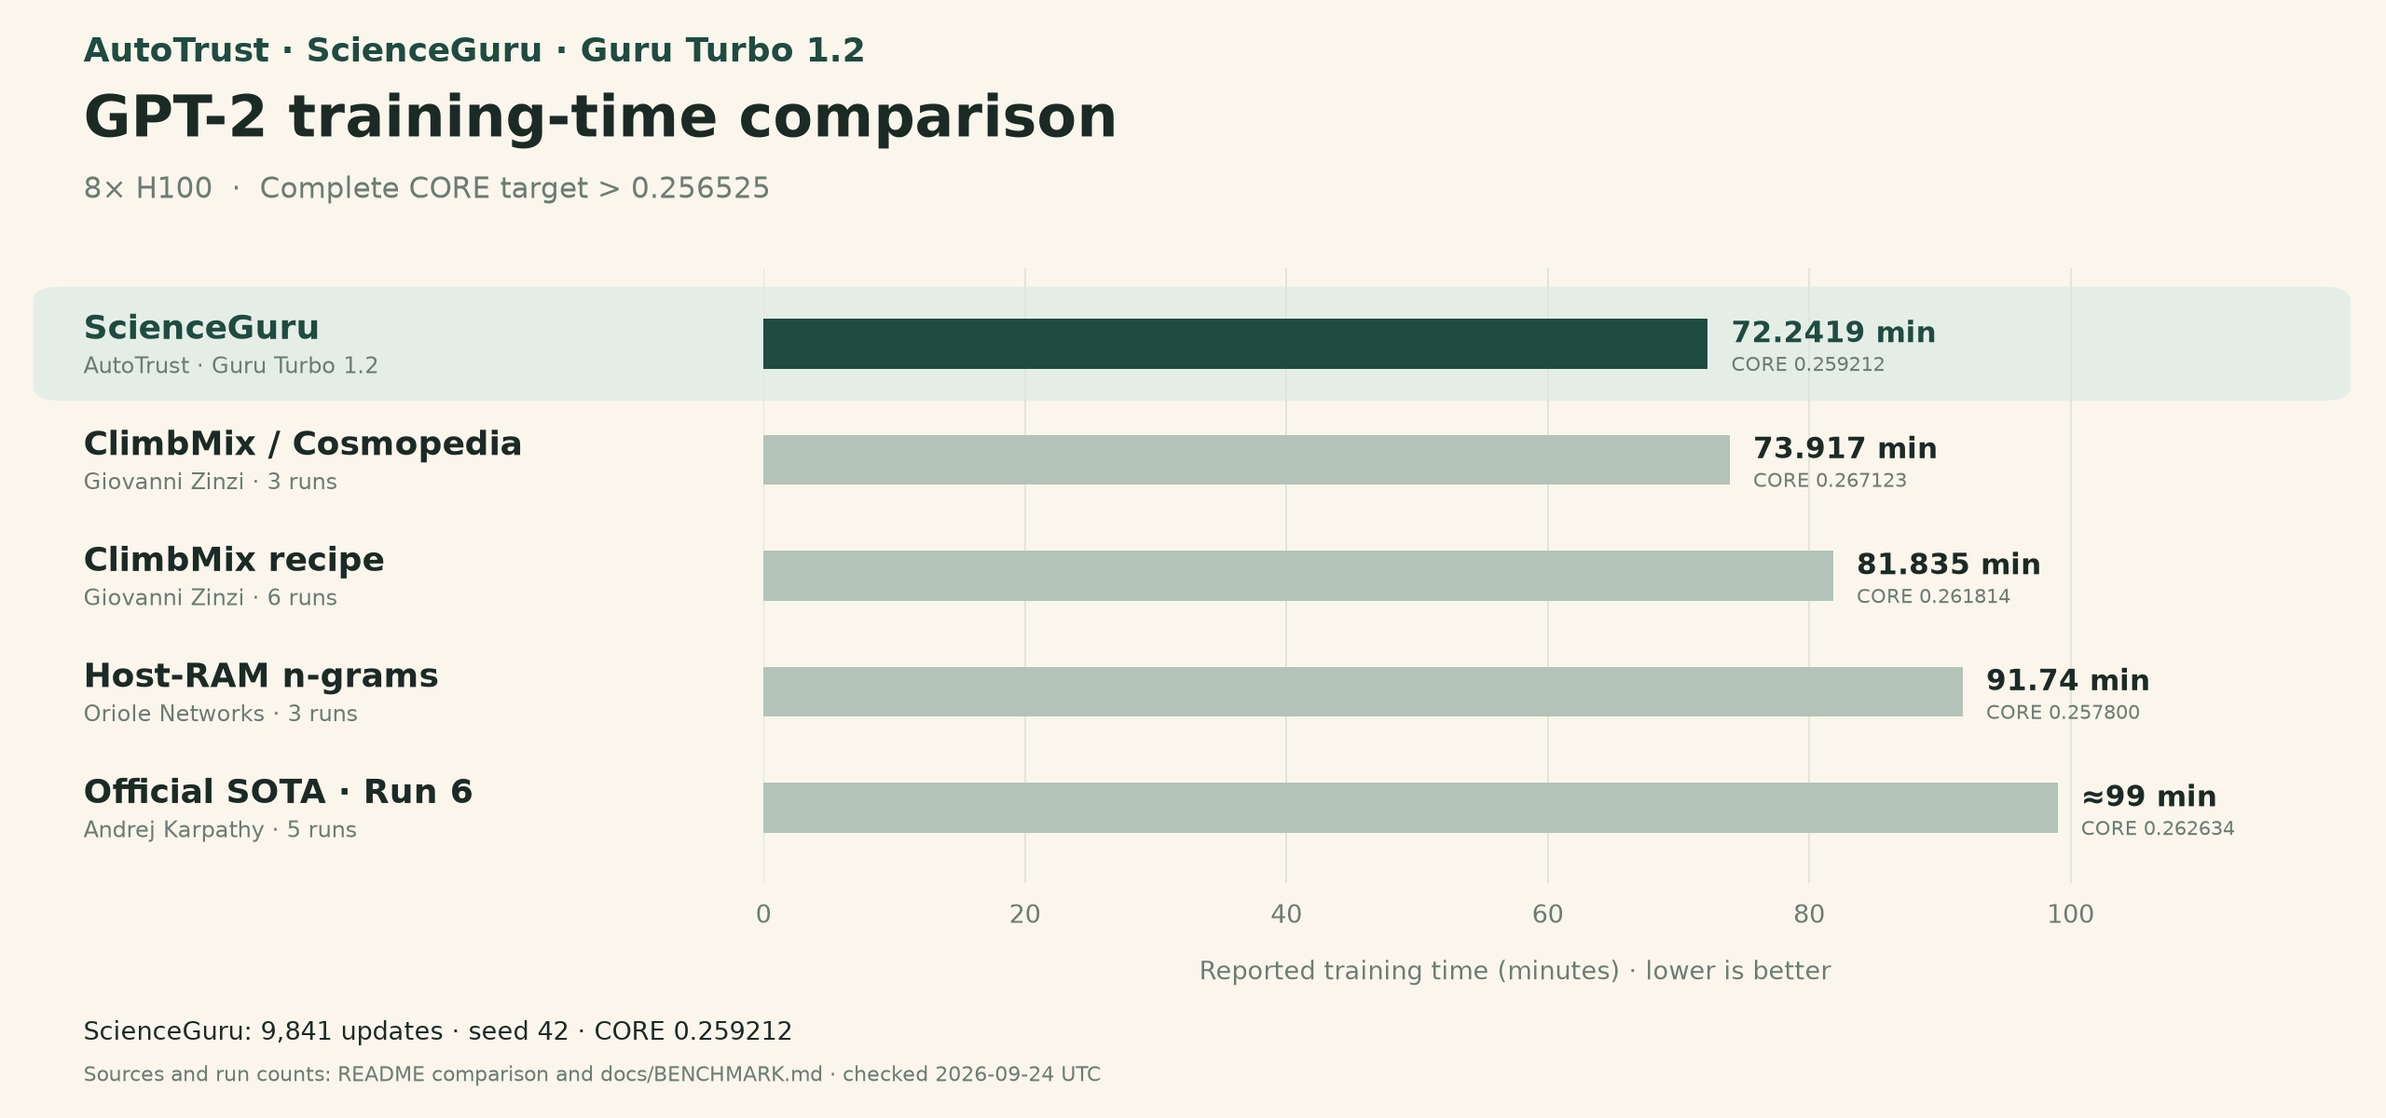
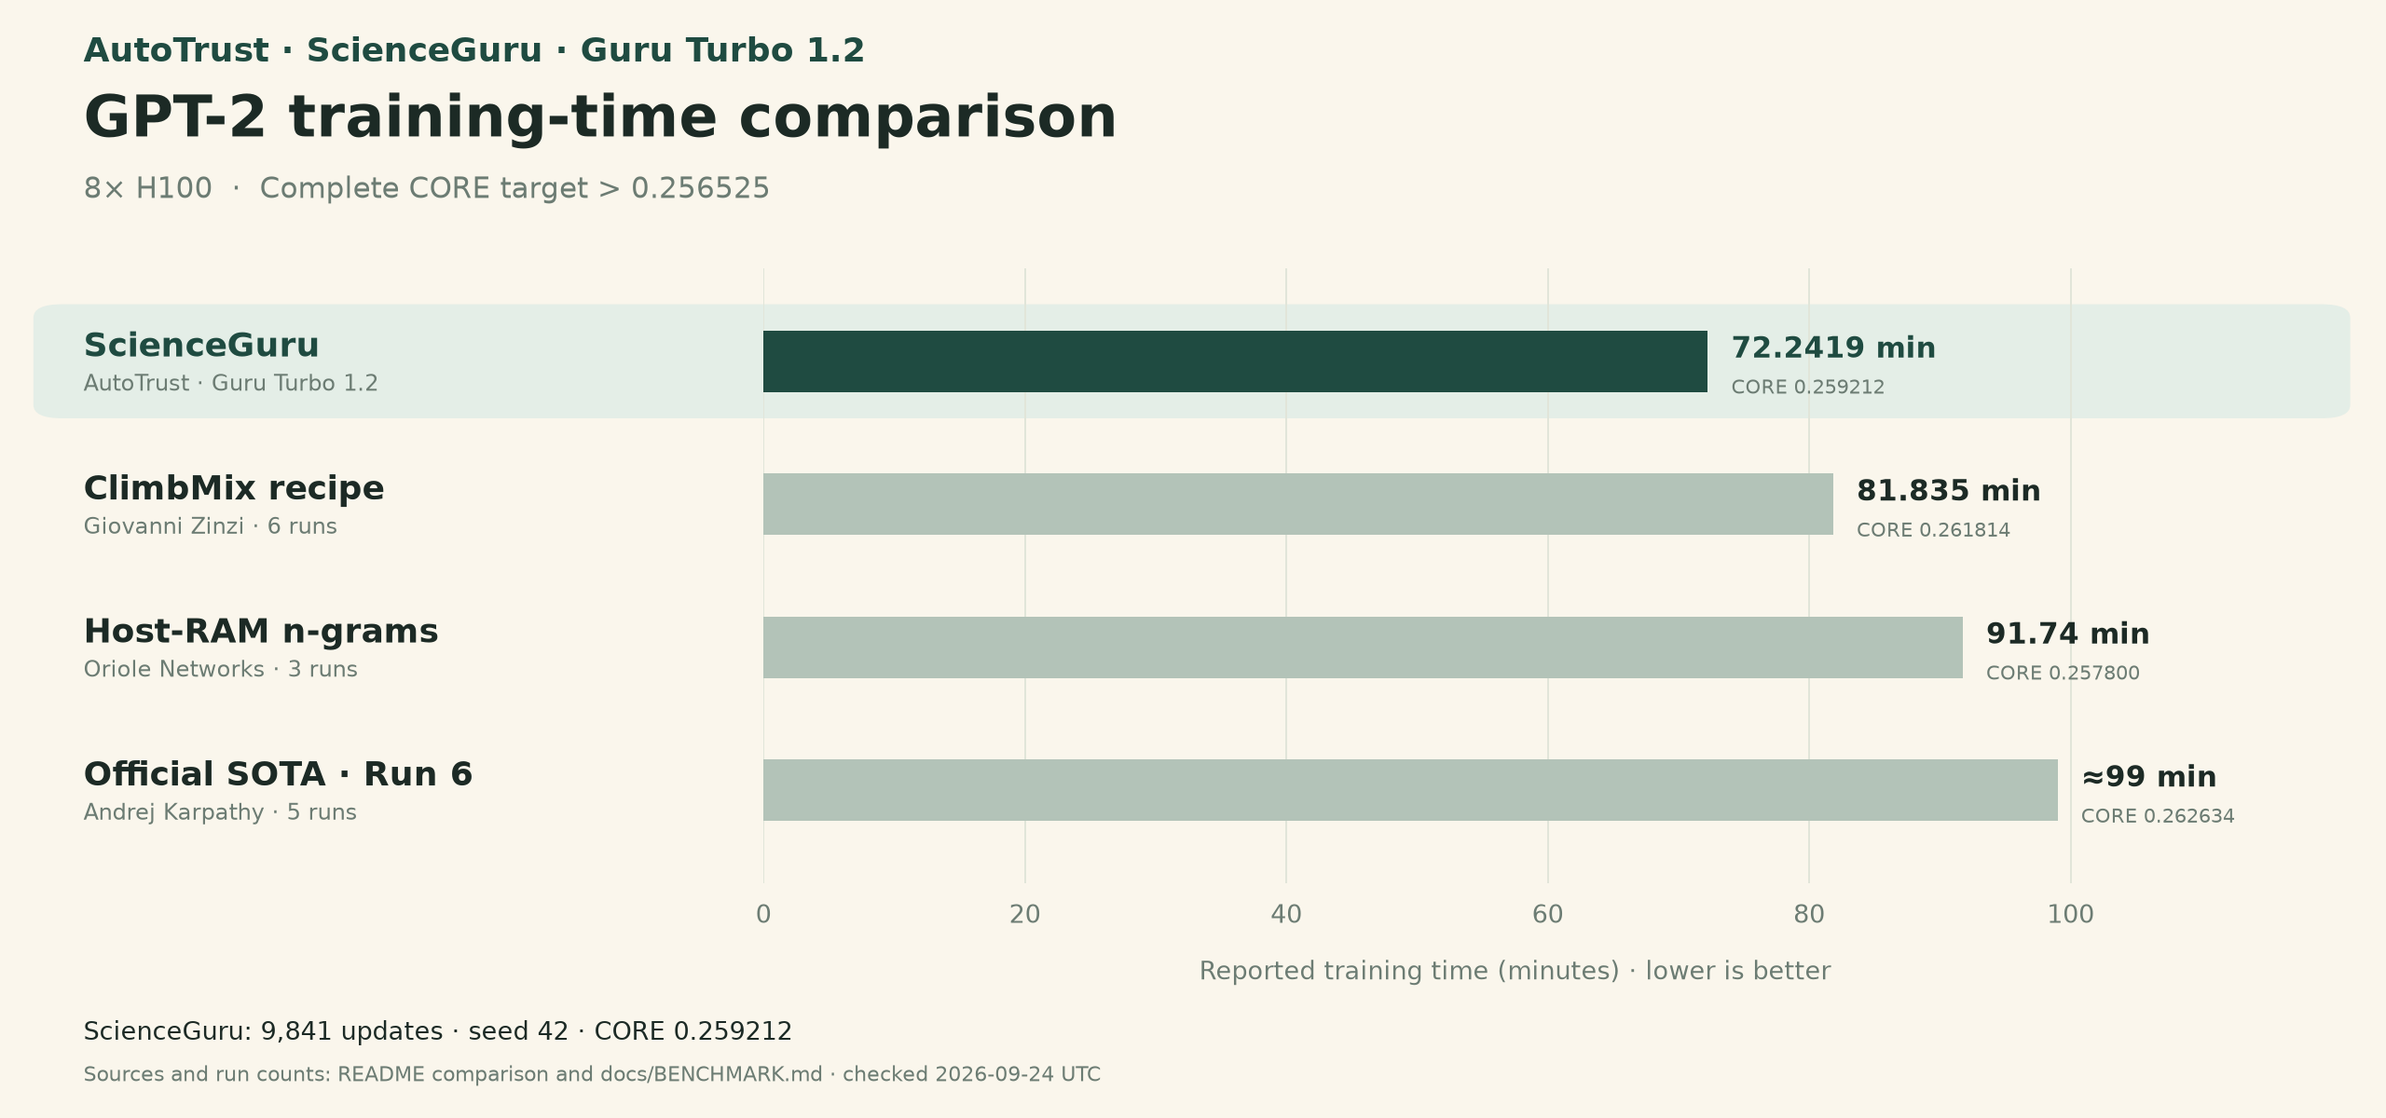
Remove mixed-data experiment from GPT-2 baseline comparisons

diff --git a/assets/render_history.py b/assets/render_history.py
@@ -87,7 +87,6 @@ callout(ax, lookup['run4'], 'Run 4 · ClimbMix\n≈121.2 min', (.30, .51))
 callout(ax, lookup['run5'], 'Run 5 · Autoresearch round 1\n≈108 min', (.06, .12))
 callout(ax, lookup['run6'], 'Run 6 · Autoresearch round 2\n≈99 min · official SOTA', (.35, .13))
 callout(ax, lookup['pr830_main'], 'Giovanni · ClimbMix\n81.835 min', (.57, .53))
-callout(ax, lookup['pr830_mixed'], 'Giovanni · Mixed data\n73.917 min', (.60, .12))
 callout(ax, lookup['pr854_hostram'], 'Oriole Networks · n-grams\n91.74 min', (.78, .48))
 callout(ax, ours, 'ScienceGuru\n72.2419 min', (.995, .29), strong=True, align='right')
 legend = [Line2D([0], [0], color=HISTORY, marker='o', markerfacecolor='#D2DCCB', lw=2, label='nanochat leaderboard · 6 runs'),
@@ -113,4 +112,4 @@ for tag, ident, text in [('title', 'chart-title', 'ScienceGuru Time-to-GPT-2 tra
     ('desc', 'chart-description', '; '.join(f"{p['date']} {p['label']}: {described_time(p)} minutes" for p in points))]:
     element = ET.Element(f'{{{ns}}}{tag}', {'id': ident}); element.text = text; svg.insert(0, element)
 tree.write(path, encoding='utf-8', xml_declaration=True)
-print('Rendered six official runs, three public comparisons, and ScienceGuru as SVG and PNG.')
+print(f'Rendered {len(official)} official runs, {len(others)} public comparisons, and ScienceGuru as SVG and PNG.')

diff --git a/assets/render_comparison.py b/assets/render_comparison.py
@@ -29,7 +29,6 @@ assert [r['minutes'] for r in rows] == sorted(r['minutes'] for r in rows)
 
 labels = {
     'scienceguru_nc033': ('ScienceGuru', 'AutoTrust · Guru Turbo 1.2'),
-    'pr830_mixed': ('ClimbMix / Cosmopedia', 'Giovanni Zinzi · 3 runs'),
     'pr830_main': ('ClimbMix recipe', 'Giovanni Zinzi · 6 runs'),
     'pr854_hostram': ('Host-RAM n-grams', 'Oriole Networks · 3 runs'),
     'official_run6': ('Official SOTA · Run 6', 'Andrej Karpathy · 5 runs'),
@@ -84,4 +83,4 @@ for tag, ident, text in [('title', 'chart-title', 'ScienceGuru GPT-2 training-ti
     ('desc', 'chart-description', '; '.join(f"{labels[r['id']][0]}: {described_time(r)} minutes, CORE {r['core']:.6f}" for r in rows))]:
     element = ET.Element(f'{{{ns}}}{tag}', {'id': ident}); element.text = text; svg.insert(0, element)
 tree.write(path, encoding='utf-8', xml_declaration=True)
-print('Rendered five GPT-2 comparison rows as SVG and PNG.')
+print(f'Rendered {len(rows)} GPT-2 comparison rows as SVG and PNG.')

diff --git a/docs/SPEEDRUN_CHART.md b/docs/SPEEDRUN_CHART.md
@@ -1,6 +1,6 @@
 # Time-to-GPT-2 chart data and sources
 
-The history figure shows six nanochat leaderboard runs, three selected comparison results, and ScienceGuru's completed 72.2419-minute experiment. Every plotted time uses an 8×H100 node. The chart and main comparison use the cream and green presentation of the latest [NanoGPT reference page](https://github.com/AutoTrustAI/nanogpt-speedrun-sota-by-guru/blob/fcdc062afd12b50684361d04451b5681670bb843/README.md), with Time-to-GPT-2 data throughout.
+The history figure shows six nanochat leaderboard runs, two selected comparison results, and ScienceGuru's completed 72.2419-minute experiment. Every plotted time uses an 8×H100 node. The chart and main comparison use the cream and green presentation of the latest [NanoGPT reference page](https://github.com/AutoTrustAI/nanogpt-speedrun-sota-by-guru/blob/fcdc062afd12b50684361d04451b5681670bb843/README.md), with Time-to-GPT-2 data throughout.
 
 ## History values
 
@@ -13,13 +13,12 @@ The history figure shows six nanochat leaderboard runs, three selected compariso
 | 2026-03-09 | Run 5: autoresearch round 1 | ≈108 | Same leaderboard, 1.80 hours |
 | 2026-03-14 | Run 6: autoresearch round 2 | ≈99 | Same leaderboard, 1.65 hours |
 | 2026-08-15 | Giovanni Zinzi: ClimbMix | 81.835 | [#830](https://github.com/karpathy/nanochat/pull/830), six-run result |
-| 2026-08-15 | Giovanni Zinzi: mixed data | 73.917 | [#830](https://github.com/karpathy/nanochat/pull/830), three-run result |
 | 2026-09-11 | Oriole Networks: host-RAM n-grams | 91.74 | [#854](https://github.com/karpathy/nanochat/pull/854), three-run result |
 | 2026-09-24 | ScienceGuru + Guru Turbo 1.2 | 72.241873 | [nc033 metrics](../results/nc033/metrics.json), seed 42 |
 
 The six official dates and times follow the pinned nanochat README. Its hours are rounded, so their conversion to minutes and comparisons against them are approximate. Run 4 uses March 4 from that table; the detailed run note instead says March 3. The first three run notes contain more precise seconds, but the history consistently uses the table's published hours.
 
-The two Giovanni points use #830's opening date; the Oriole point uses #854's opening date. Their values were read from the submission bodies on September 24, 2026. These dates identify the submissions and do not assert the precise date of each underlying experiment. ScienceGuru uses the date of this repository's [first publication commit](https://github.com/AutoTrustAI/gpt2-speedrun-sota-by-guru/commit/9f154239f71c7075db60af0203a2c1131a8e120e), September 24, 2026 UTC.
+The Giovanni point uses #830's opening date; the Oriole point uses #854's opening date. Their values were read from the submission bodies on September 24, 2026. These dates identify the submissions and do not assert the precise date of each underlying experiment. ScienceGuru uses the date of this repository's [first publication commit](https://github.com/AutoTrustAI/gpt2-speedrun-sota-by-guru/commit/9f154239f71c7075db60af0203a2c1131a8e120e), September 24, 2026 UTC.
 
 The solid line connects the six official runs. Diamonds show selected comparisons, and the star shows ScienceGuru. The dashed segment connects the official Run 6 reference to ScienceGuru for comparison. It does not represent additional measurements. The 2019 GPT-2 training used different hardware and is outside this plot.
 
@@ -33,7 +32,7 @@ Speedup = reference time / ScienceGuru time
 Time reduction = 1 - ScienceGuru time / reference time
 ```
 
-The rounded official 99-minute reference gives approximately **1.370× speedup**, **27.03% less time**, and **26.76 minutes saved**. Giovanni's 73.917-minute mixed-data result gives **1.023× speedup**, **2.27% less time**, and **100.51 seconds saved**.
+The rounded official 99-minute reference gives approximately **1.370× speedup**, **27.03% less time**, and **26.76 minutes saved**.
 
 ## Regenerate the figures
 

diff --git a/README.md b/README.md
@@ -42,26 +42,25 @@ The native `total_training_time` is **4,334.512382 seconds**, covering **9,830 t
 
 Results checked on **2026-09-24 UTC**, for **8×H100 / CORE >0.256525**, ordered by training time. Each reference uses its reported time and run count; ScienceGuru uses the completed seed 42 result. The official 99-minute reference is rounded.
 
-![GPT-2 training-time comparison: ScienceGuru 72.2419 minutes, Giovanni's mixed-data recipe 73.917, Giovanni's ClimbMix recipe 81.835, Oriole Networks 91.74, and official Run 6 approximately 99 minutes.](assets/gpt2-comparison.svg)
+![GPT-2 training-time comparison: ScienceGuru 72.2419 minutes, Giovanni's ClimbMix recipe 81.835, Oriole Networks 91.74, and official Run 6 approximately 99 minutes.](assets/gpt2-comparison.svg)
 
 [Download comparison PNG](assets/gpt2-comparison.png) · [Comparison data](assets/comparison-data.json) · [Sources and protocol](docs/BENCHMARK.md)
 
 | Strategy | Team / contributor | Training time | CORE | Runs | ScienceGuru speedup |
 |---|---|---:|---:|---:|---:|
 | **ScienceGuru, MLP4864** | **AutoTrust · Guru Turbo 1.2** | **72.2419 min** | **0.259212** | **1** | — |
-| [ClimbMix / Cosmopedia mixture](https://github.com/karpathy/nanochat/pull/830) | Giovanni Zinzi | **73.917 min** | 0.267123 | 3 | **1.023×** |
 | [ClimbMix recipe](https://github.com/karpathy/nanochat/pull/830) | Giovanni Zinzi | **81.835 min** | 0.261814 | 6 | **1.133×** |
 | [Host-RAM n-grams](https://github.com/karpathy/nanochat/pull/854) | Oriole Networks · Nihir Patel and collaborators | **91.74 min** | 0.2578 | 3 | **1.270×** |
 | [**Official SOTA — Run 6**](https://github.com/karpathy/nanochat/blob/92d63d4e8bb4df75c3b71618f31ddde2378b2bcd/dev/LEADERBOARD.md#run-6) | Andrej Karpathy | **≈99 min** | 0.262634 | 5 | **≈1.370×** |
 
-Against the official Run 6 reference, ScienceGuru saves **≈26.76 minutes**, a **≈1.370× speedup**. Against the **73.917-minute** mixed-data result, it saves **100.51 seconds**, using **2.27% less training time**. The model is trained on ClimbMix with the original tokenizer and complete downstream evaluation. [Comparison details](docs/BENCHMARK.md#public-comparisons).
+Against the official Run 6 reference, ScienceGuru saves **≈26.76 minutes**, a **≈1.370× speedup**. The model is trained on ClimbMix with the original tokenizer and complete downstream evaluation. [Comparison details](docs/BENCHMARK.md#public-comparisons).
 
 ## Background of the leading contributors
 
 | Contributor | Public background | Result in this comparison |
 |---|---|---|
 | **Andrej Karpathy** | Creator and maintainer of [nanochat](https://github.com/karpathy/nanochat); the latest official run incorporates a second round of autoresearch. | **≈99 min** |
-| **Giovanni Zinzi** | Author of [#830](https://github.com/karpathy/nanochat/pull/830), which reports fused cross entropy, selective RMSNorm scales, and a 49,152-token speedrun vocabulary. | **81.835 min**; mixed data **73.917 min** |
+| **Giovanni Zinzi** | Author of [#830](https://github.com/karpathy/nanochat/pull/830), which reports fused cross entropy, selective RMSNorm scales, and a 49,152-token speedrun vocabulary. | **81.835 min** |
 | **Oriole Networks · Nihir Patel and collaborators** | [#854](https://github.com/karpathy/nanochat/pull/854) names Nihir Patel, Alessandro Ottino, and Robin Matzner at Oriole Networks. | **91.74 min** |
 
 [Recursive](https://github.com/recursive-org/first-steps-toward-automated-ai-research/tree/main/nanochat_autoresearch) also publishes NanoChat autoresearch experiments, reporting **0.9109 mean validation BPB** over ten seeds on one B200 with a five-minute budget. That experiment uses a different hardware and evaluation protocol. [Teams, contributions, and related work](docs/TEAMS.md).

diff --git a/README.zh-CN.md b/README.zh-CN.md
@@ -42,26 +42,25 @@ nanochat 官方榜单收录了 **6 次 8×H100 运行纪录**，依次通过 FP8
 
 以下结果核对于 **2026-09-24 UTC**，使用 **8×H100 / CORE >0.256525**，按训练时间排序。各方案采用来源报告的时间与运行次数；ScienceGuru 使用已完成的 seed 42 成绩。官方约 99 分钟为经过舍入的数值。
 
-![GPT-2 训练时间对比：ScienceGuru 72.2419 分钟、Giovanni 混合数据 73.917 分钟、ClimbMix 方案 81.835 分钟、Oriole Networks 91.74 分钟、官方 Run 6 约 99 分钟。](assets/gpt2-comparison.svg)
+![GPT-2 训练时间对比：ScienceGuru 72.2419 分钟、ClimbMix 方案 81.835 分钟、Oriole Networks 91.74 分钟、官方 Run 6 约 99 分钟。](assets/gpt2-comparison.svg)
 
 [下载对比图 PNG](assets/gpt2-comparison.png) · [对比数据](assets/comparison-data.json) · [来源与规则](docs/BENCHMARK.md)
 
 | 方案 | 团队 / 作者 | 训练时间 | CORE | 运行次数 | ScienceGuru 加速比 |
 |---|---|---:|---:|---:|---:|
 | **ScienceGuru，MLP4864** | **AutoTrust · Guru Turbo 1.2** | **72.2419 分钟** | **0.259212** | **1** | — |
-| [ClimbMix / Cosmopedia 混合数据](https://github.com/karpathy/nanochat/pull/830) | Giovanni Zinzi | **73.917 分钟** | 0.267123 | 3 | **1.023×** |
 | [ClimbMix 方案](https://github.com/karpathy/nanochat/pull/830) | Giovanni Zinzi | **81.835 分钟** | 0.261814 | 6 | **1.133×** |
 | [主机内存 n-gram](https://github.com/karpathy/nanochat/pull/854) | Oriole Networks · Nihir Patel 等 | **91.74 分钟** | 0.2578 | 3 | **1.270×** |
 | [**官方 SOTA — Run 6**](https://github.com/karpathy/nanochat/blob/92d63d4e8bb4df75c3b71618f31ddde2378b2bcd/dev/LEADERBOARD.md#run-6) | Andrej Karpathy | **约 99 分钟** | 0.262634 | 5 | **约 1.370×** |
 
-相对官方 Run 6，ScienceGuru 节省约 **26.76 分钟**，加速约 **1.370 倍**；相对 **73.917 分钟**的混合数据成绩，节省 **100.51 秒**，训练时间减少 **2.27%**。本方案使用 ClimbMix、原 tokenizer 和完整下游评估。[对比说明](docs/BENCHMARK.md#public-comparisons)。
+相对官方 Run 6，ScienceGuru 节省约 **26.76 分钟**，加速约 **1.370 倍**。本方案使用 ClimbMix、原 tokenizer 和完整下游评估。[对比说明](docs/BENCHMARK.md#public-comparisons)。
 
 ## 主要贡献者背景
 
 | 贡献者 | 公开背景 | 本页对比成绩 |
 |---|---|---|
 | **Andrej Karpathy** | [nanochat](https://github.com/karpathy/nanochat) 的创建者与维护者；最新官方成绩采用第二轮 autoresearch 的改进。 | **约 99 分钟** |
-| **Giovanni Zinzi** | [#830](https://github.com/karpathy/nanochat/pull/830) 的作者，方案涉及融合交叉熵、选择性 RMSNorm 缩放和 49152 词表。 | **81.835 分钟**；混合数据 **73.917 分钟** |
+| **Giovanni Zinzi** | [#830](https://github.com/karpathy/nanochat/pull/830) 的作者，方案涉及融合交叉熵、选择性 RMSNorm 缩放和 49152 词表。 | **81.835 分钟** |
 | **Oriole Networks · Nihir Patel 等** | [#854](https://github.com/karpathy/nanochat/pull/854) 明确列出 Nihir Patel、Alessandro Ottino 和 Robin Matzner 的 Oriole Networks 归属。 | **91.74 分钟** |
 
 [Recursive](https://github.com/recursive-org/first-steps-toward-automated-ai-research/tree/main/nanochat_autoresearch) 也公开了 NanoChat autoresearch 实验：单张 B200、五分钟预算、10 个 seed 的平均验证 BPB 为 **0.9109**，采用另一套硬件和评测规则。[团队、贡献与相关研究](docs/TEAMS.md)。

diff --git a/docs/TEAMS.md b/docs/TEAMS.md
@@ -11,10 +11,10 @@ The comparison brings together the maintained Time-to-GPT-2 leaderboard and sele
 | Contributor | Publicly documented contribution | Reported result |
 |---|---|---|
 | **Andrej Karpathy** | Maintains [nanochat](https://github.com/karpathy/nanochat). The official [Run 6 account](https://github.com/karpathy/nanochat/blob/92d63d4e8bb4df75c3b71618f31ddde2378b2bcd/dev/LEADERBOARD.md#run-6) describes architecture improvements from the second autoresearch round. | **≈99 min**, CORE **0.262634**, five runs. |
-| **Giovanni Zinzi** | Author of [PR #830](https://github.com/karpathy/nanochat/pull/830): a d22 recipe with a 49,152-token vocabulary, fused cross entropy and selective RMSNorm scales. The submission identifies the contributor without establishing a company affiliation. | Main ClimbMix recipe: **81.835 min**, CORE **0.261814**, six runs. Mixed-data experiment: **73.917 min**, CORE **0.267123**, three runs. |
+| **Giovanni Zinzi** | Author of [PR #830](https://github.com/karpathy/nanochat/pull/830): a d22 recipe with a 49,152-token vocabulary, fused cross entropy and selective RMSNorm scales. The submission identifies the contributor without establishing a company affiliation. | Main ClimbMix recipe: **81.835 min**, CORE **0.261814**, six runs. |
 | **Oriole Networks · Nihir Patel** | The disclosure in [PR #854](https://github.com/karpathy/nanochat/pull/854) identifies Nihir Patel, Alessandro Ottino and Robin Matzner with Oriole Networks. The method adds hashed bigram/trigram tables in host RAM to a d24 model. | **91.74 min**, CORE **0.2578**, three runs. |
 
-Zinzi's mixed-data experiment uses an 80/20 ClimbMix/Cosmopedia-v2 mixture. The author omitted it from the main recipe because it regressed at d14. Oriole's individual CORE scores are 0.2592, 0.2557 and 0.2584; two of the three exceed the individual threshold. These details accompany the aggregate results in [Benchmark and comparisons](BENCHMARK.md).
+Oriole's individual CORE scores are 0.2592, 0.2557 and 0.2584; two of the three exceed the individual threshold. These details accompany the aggregate results in [Benchmark and comparisons](BENCHMARK.md).
 
 ## Related organizations and research
 

diff --git a/docs/BENCHMARK.md b/docs/BENCHMARK.md
@@ -23,7 +23,7 @@ The reported time is the original `total_training_time` accumulated by the train
 All comparison rows appear together in the [main page](../README.md#performance-comparison). Data and direct sources are in [public-baselines.json](../results/public-baselines.json), checked September 24, 2026.
 
 - The maintained official table lists Run 6 at approximately 99 minutes, CORE 0.262634, five runs.
-- [Giovanni Zinzi's #830](https://github.com/karpathy/nanochat/pull/830) reports 81.835 minutes and CORE 0.261814 over six runs for its main ClimbMix recipe. Its three-run 80/20 ClimbMix/Cosmopedia experiment reports 73.917 minutes and CORE 0.267123. The mixture was omitted from the main recipe after worse d14 results.
+- [Giovanni Zinzi's #830](https://github.com/karpathy/nanochat/pull/830) reports 81.835 minutes and CORE 0.261814 over six runs for its main ClimbMix recipe. The PR was closed on September 3, 2026 when its author deleted the head repository; the reported results remain available in the PR description.
 - [Oriole Networks' #854](https://github.com/karpathy/nanochat/pull/854) reports 91.74 minutes and CORE 0.2578 over three runs. The authors explicitly identify their Oriole affiliation. Two of the three listed runs exceed the individual CORE floor.
 
 The chart uses each source's reported training time. It displays rounded 99 minutes for the official reference; calculations against that row are approximate. The ScienceGuru row is one seed 42 run, while the cited comparison rows report their stated aggregates. CORE values are shown alongside time because they differ between recipes.
